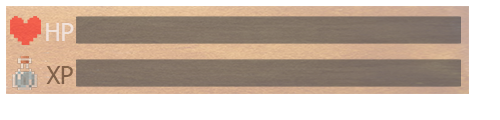
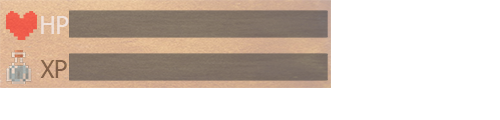
Update 26/02/2017
-Modification de l'emplacement et de la taille des composantes HUD
-Debug en bas à gauche

diff --git a/Spellington/src/ca/qc/bdeb/info204/spellington/gamestates/PlayState.java b/Spellington/src/ca/qc/bdeb/info204/spellington/gamestates/PlayState.java
@@ -6,6 +6,7 @@ import ca.qc.bdeb.info204.spellington.calculations.Vector2D;
 import ca.qc.bdeb.info204.spellington.gameentities.Spellington;
 import ca.qc.bdeb.info204.spellington.gameentities.Tile;
 import java.awt.Dimension;
+import java.awt.Toolkit;
 import org.newdawn.slick.Color;
 import org.newdawn.slick.GameContainer;
 import org.newdawn.slick.Graphics;
@@ -37,13 +38,13 @@ public class PlayState extends BasicGameState {
     private static boolean debugMode = false;
     
     private Image healthBarHUD, textRectangleHUD, utilitySquare1HUD, utilitySquare2HUD;
-    private static final int HEALTHBARPOSX = 5, TEXTRECTANGLEPOSX = 230, UTILITYSQUARE1POSX = 10, UTILITYSQUARE2POSX = 120;
-    private static final int HEALTHBARPOSY = 5, TEXTRECTANGLEPOSY = 855, UTILITYSQUARE1POSY = 795, UTILITYSQUARE2POSY = 795;
+    private static int HEALTHBARPOSX = 5, TEXTRECTANGLEPOSX = (GameCore.RENDER_SIZE.width/2) - 400, UTILITYSQUARE1POSX = GameCore.RENDER_SIZE.width - (5+100), UTILITYSQUARE2POSX = UTILITYSQUARE1POSX - (100+10);
+    private static final int BARS_Y = 5;
     //Not final elements since they will be modified at all times
-    private int barX = 76 + HEALTHBARPOSX; //common X position of the color bars
-    private int healthBarY = 17 + HEALTHBARPOSY; //Y position of the health bar
-    private int xpBarY = 60 + HEALTHBARPOSY; //Y position of the xp bar
-    private int barWidth = 386, barHeight = 26; 
+    private int barX = 69 + HEALTHBARPOSX; //common X position of the color bars
+    private int healthBarY = 11 + BARS_Y; //Y position of the health bar
+    private int xpBarY = 54 + BARS_Y; //Y position of the xp bar
+    private int barWidth = 258, barHeight = 26; 
     private static int alpha = 127; //50% color transparency
     private static final Color HEALTHCOLOR = new Color(255, 0, 0, alpha), XPCOLOR = new Color(0, 0, 255, alpha);
 
@@ -54,6 +55,11 @@ public class PlayState extends BasicGameState {
         map = new TiledMap("src/resources/map/mapTestGrotte.tmx");
         extractMapInfo();
         spellington = new Spellington(1500, 400);
+        
+        this.healthBarHUD = new Image("src/resources/map/healthBar.png");
+        this.textRectangleHUD = new Image("src/resources/map/textRectangle.png");
+        this.utilitySquare1HUD = new Image("src/resources/map/utilitySquare.png");
+        this.utilitySquare2HUD = new Image("src/resources/map/utilitySquare.png");
     }
 
     @Override
@@ -67,7 +73,7 @@ public class PlayState extends BasicGameState {
         spellington.render(g);
 
         g.setColor(Color.white);
-        g.drawString("ESC : Menu / F3 : DEBUG ", GameCore.RENDER_SIZE.width - 230, 20);
+        g.drawString("ESC : Menu / F3 : DEBUG ", 10 , GameCore.RENDER_SIZE.height - 40);
 
         debugInfo(g, gc);
         
@@ -188,21 +194,14 @@ public class PlayState extends BasicGameState {
     }
 
     private void displayHUD(Graphics g) throws SlickException {
-        int textX = 230;
-        int textY = 820;
-        g.drawString("Active:", UTILITYSQUARE1POSX, UTILITYSQUARE1POSY-17);
-        g.drawString("Used:", UTILITYSQUARE2POSX, UTILITYSQUARE2POSY-17);
-        g.drawString("Potions:", textX, textY);
-              
-        this.healthBarHUD = new Image("src/resources/map/healthBar.png");
-        this.textRectangleHUD = new Image("src/resources/map/textRectangle.png");
-        this.utilitySquare1HUD = new Image("src/resources/map/utilitySquare.png");
-        this.utilitySquare2HUD = new Image("src/resources/map/utilitySquare.png");
+        g.drawString("Active", UTILITYSQUARE1POSX, BARS_Y + 100);//using rendersize to place the items
+        g.drawString("Used", UTILITYSQUARE2POSX, BARS_Y + 100);
+        g.drawString("Potions:", UTILITYSQUARE2POSX - 180, BARS_Y);
         
-        g.drawImage(this.healthBarHUD, HEALTHBARPOSX, HEALTHBARPOSY);
-        g.drawImage(this.textRectangleHUD, TEXTRECTANGLEPOSX, TEXTRECTANGLEPOSY);
-        g.drawImage(this.utilitySquare1HUD, UTILITYSQUARE1POSX, UTILITYSQUARE1POSY);
-        g.drawImage(this.utilitySquare2HUD, UTILITYSQUARE2POSX, UTILITYSQUARE2POSY);
+        g.drawImage(this.healthBarHUD, HEALTHBARPOSX, BARS_Y);
+        g.drawImage(this.textRectangleHUD, TEXTRECTANGLEPOSX, BARS_Y);
+        g.drawImage(this.utilitySquare1HUD, UTILITYSQUARE1POSX, BARS_Y);
+        g.drawImage(this.utilitySquare2HUD, UTILITYSQUARE2POSX, BARS_Y);
 
         g.setColor(HEALTHCOLOR);
         g.fillRect(barX, healthBarY, 1f * barWidth, barHeight); //health constantly updated from 1f to 0f
